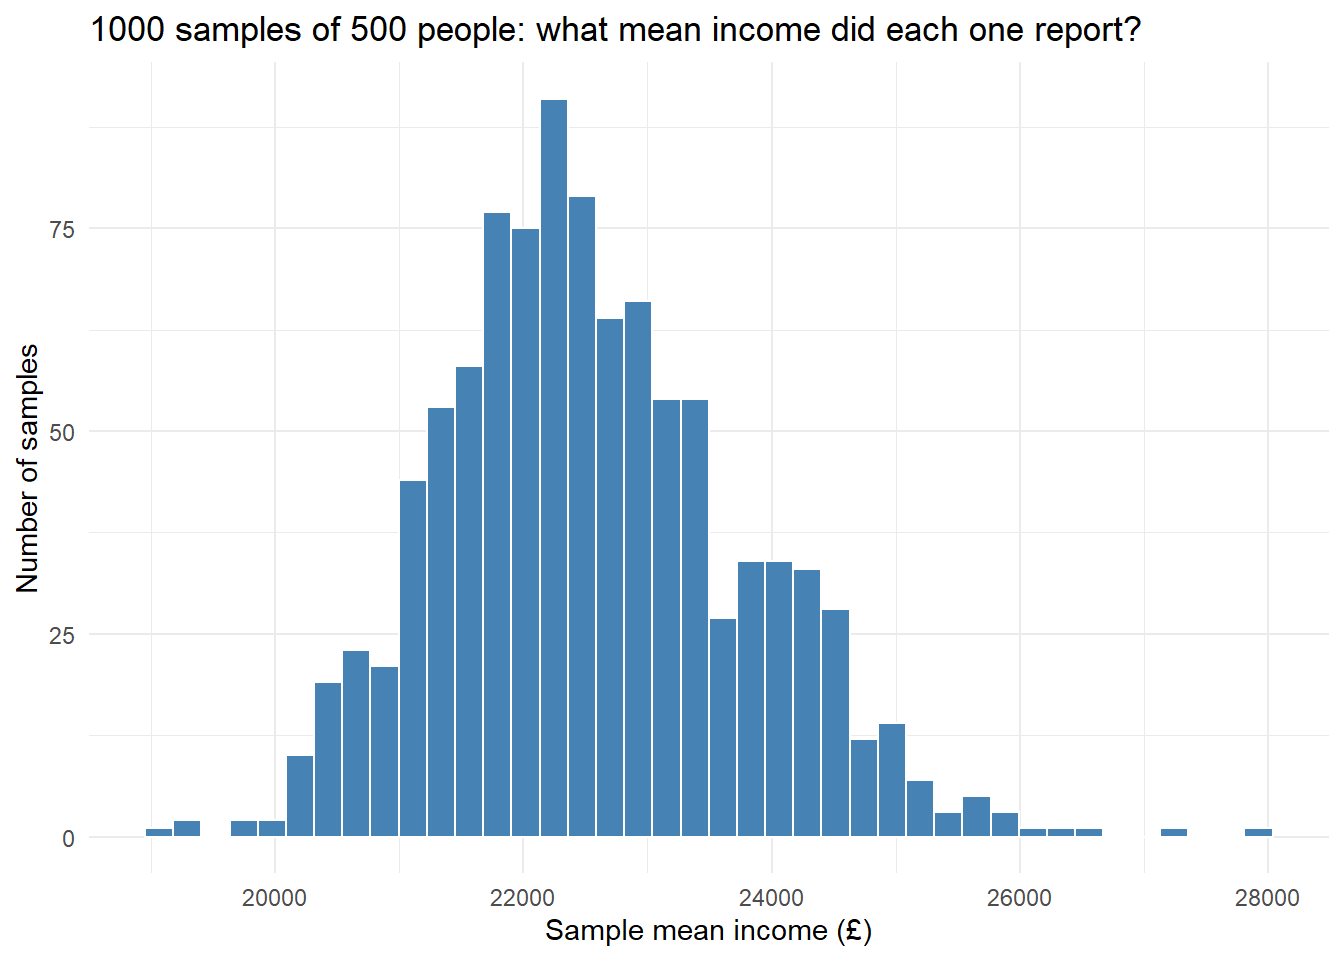
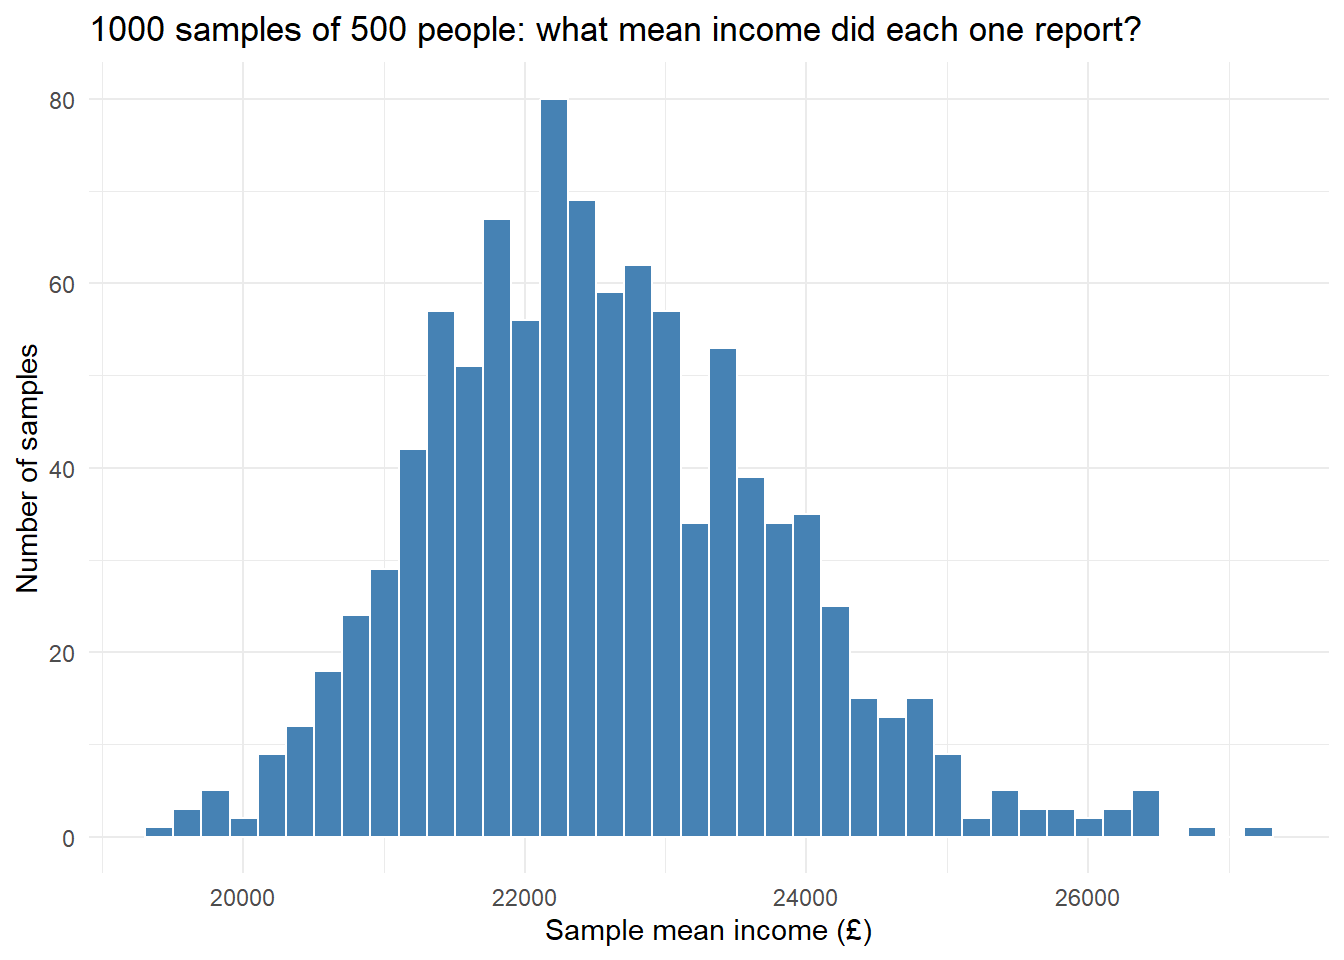
commit

diff --git a/docs/labs/03.QualitativeVariable.html b/docs/labs/03.QualitativeVariable.html
@@ -309,7 +309,7 @@ pre > code.sourceCode > span > a:first-child::before { text-decoration: underlin
 </header>
 
 
-<p><strong>Open this lab in RStudio: in the Files pane, click <code>labs</code> and then <code>03.QualitativeVariable.qmd</code>. Save your own copy in <code>myLabs</code> (<code>File -&gt; Save As...</code>) and work on the copy. Work through it from top to bottom, running each code chunk and adding your notes and answers in the file.</strong> (First time? See the <a href="../general/setup.html">Setup</a> guide.)</p>
+<p><strong>Open this lab in RStudio: in the Files pane, click <code>labs</code> and then <code>03.QualitativeVariable.qmd</code>. Save your own copy in <code>myLabs</code> (<code>File -&gt; Save As...</code>) and work on the copy. Work through it from top to bottom, running each code chunk and adding your notes and answers in the file.</strong> (First time? See the <a href="https://gdsl-ul.github.io/stats/general/localSetup.html">Setup: RStudio on a PC or Laptop</a> if you’re working on your own laptop)</p>
 <p>The lecture’s slides can be found on Canvas Week 3 <a href="#0">here</a>.</p>
 <p>Last week, we introduced Multiple Linear Regression (MLR) - a statistical method that models the relationship between a dependent variable and two or more independent variables, allowing researchers to examine how various predictors jointly influence an outcome. By using the following R code, we create and interpret the model:</p>
 <p><code>model &lt;- lm(pct_Very_bad_health ~ pct_No_qualifications + pct_Males + pct_Higher_manager_prof, data = census)</code></p>
@@ -331,7 +331,7 @@ pre > code.sourceCode > span > a:first-child::before { text-decoration: underlin
 </ul>
 <section id="analysing-categorical-variables" class="level2" data-number="4.1">
 <h2 data-number="4.1" class="anchored" data-anchor-id="analysing-categorical-variables"><span class="header-section-number">4.1</span> Analysing categorical variables</h2>
-<p>Recall that in Week 2 you became familiar with R by using the Census data. Today we will explore both the Family Resource Survey (FRS) and the Census data by using their categorical variables. The Census data is already in your ‘data/Census2021/’ folder, and you uploaded ‘FRS16-17_labels.csv’ to ‘data/FRS/’ in Week 1. If it is not there, download it from <a href="https://canvas.liverpool.ac.uk/courses/93312/pages/family-resource-survey-2016-17?module_item_id=2727712">Canvas</a> and upload it to ‘data/FRS/’ (use the <strong>Upload</strong> button in the Files pane: see <a href="../general/setup.html">Setup</a>, section 5). From the same Canvas page, also download ‘FRS_dictionary.xlsx’<!--and 'FRS16-17_codes.csv'--> to your computer: it explains what each variable means.</p>
+<p>Recall that in Week 2 you became familiar with R by using the Census data. Today we will explore both the Family Resource Survey (FRS) and the Census data by using their categorical variables. The Census data is already in your ‘data/Census2021/’ folder, and you uploaded ‘FRS16-17_labels.csv’ to ‘data/FRS/’ in Week 1. If it is not there, download it from <a href="https://canvas.liverpool.ac.uk/courses/93312/pages/family-resource-survey-2016-17?module_item_id=2727712">Canvas</a>and upload it to ‘data/FRS/’ (use the <strong>Upload</strong> button in the Files pane: see <a href="https://gdsl-ul.github.io/stats/general/localSetup.html">Setup</a>, section 6). From the same Canvas page, also download ‘FRS_dictionary.xlsx’<!--and 'FRS16-17_codes.csv'--> to your computer: it explains what each variable means.</p>
 <!--Now, there should be two .csv file: 'FRS16-17_labels.csv' and 'FRS16-17_codes.csv' in your '/data/FRS' folder. Double click to open both .csv files you may find they have exactly same column names - yes, they are in fact the same spreadsheet but 'FRS16-17_labels.csv' is more readable for the cell contents as they are in text format but cells 'FRS16-17_codes.csv' is in coding format. This is quite normal as when we doing surveys, we use text as the options of multiple choice questions for respondents to choose from, and therefore the collected survey results are in the 'FRS16-17_labels.csv' format. For example, for the multiple choice question - which region you are from? The options include 'London', 'North West', 'Wales', etc. However, while analysing the survey results, these text content (the options of multiple choice questions) are in fact different categories of the categorical/qualitative variable. So for some survey results, you may find they are formatted in coding way as 'FRS16-17_codes.csv', and along with a coding dictionary for you to learn the meaning of each coding. -->
 <p>To start today’s practical session, we first will use ‘FRS16-17_labels.csv’. <!--In the Region example, there are 12 categories for the categorical/qualitative variable Region--> You can open the .csv file in Excel and see that, unlike the Census dataset, the FRS dataset contains many qualitative/categorical variables, such as hh_tenure (Housing Tenure), happy (How happy did you feel yesterday?), health (How is your health in general), etc. To know the meaning of all the column names and the values in cell, you may need to refer to the ‘FRS_dictionary.xlsx’ to help your understanding. Recall from our lecture that these categorical variables will need to be treated as dummy variables in the regression model. In R, the variable type of qualitative/categorical variables is called ‘<strong>factor</strong>’.</p>
 <p>As usual we first load the necessary libraries.</p>

diff --git a/docs/general/inference.html b/docs/general/inference.html
@@ -289,11 +289,11 @@ pre > code.sourceCode > span > a:first-child::before { text-decoration: underlin
 <span id="cb2-3"><a href="#cb2-3" aria-hidden="true" tabindex="-1"></a></span>
 <span id="cb2-4"><a href="#cb2-4" aria-hidden="true" tabindex="-1"></a><span class="fu">sd</span>(means_100)   <span class="co"># standard error with n = 100</span></span></code></pre></div><button title="Copy to Clipboard" class="code-copy-button"><i class="bi"></i></button></div>
 <div class="cell-output cell-output-stdout">
-<pre><code>[1] 2637.878</code></pre>
+<pre><code>[1] 2807.429</code></pre>
 </div>
 <div class="code-copy-outer-scaffold"><div class="sourceCode cell-code" id="cb4"><pre class="sourceCode r code-with-copy"><code class="sourceCode r"><span id="cb4-1"><a href="#cb4-1" aria-hidden="true" tabindex="-1"></a><span class="fu">sd</span>(means_2000)  <span class="co"># standard error with n = 2000</span></span></code></pre></div><button title="Copy to Clipboard" class="code-copy-button"><i class="bi"></i></button></div>
 <div class="cell-output cell-output-stdout">
-<pre><code>[1] 600.891</code></pre>
+<pre><code>[1] 605.1986</code></pre>
 </div>
 </div>
 <p>Roughly £2,800 for samples of 100, against £600 for samples of 2000. Bigger samples give more precise answers — but look at the <em>rate</em>. To halve your uncertainty you must <strong>quadruple</strong> your sample.</p>
@@ -314,13 +314,13 @@ pre > code.sourceCode > span > a:first-child::before { text-decoration: underlin
     One Sample t-test
 
 data:  one_sample
-t = 23.394, df = 499, p-value &lt; 2.2e-16
+t = 22.117, df = 499, p-value &lt; 2.2e-16
 alternative hypothesis: true mean is not equal to 0
 95 percent confidence interval:
- 21169.40 25051.12
+ 22097.19 26405.92
 sample estimates:
 mean of x 
- 23110.26 </code></pre>
+ 24251.55 </code></pre>
 </div>
 </div>
 <p>Ignore most of that output and look at the part labelled <strong>95 percent confidence interval</strong>.</p>
@@ -347,12 +347,12 @@ mean of x
 <span id="cb9-7"><a href="#cb9-7" aria-hidden="true" tabindex="-1"></a><span class="fu">head</span>(many_intervals)</span></code></pre></div><button title="Copy to Clipboard" class="code-copy-button"><i class="bi"></i></button></div>
 <div class="cell-output cell-output-stdout">
 <pre><code>  sample_number    lower    upper
-1             1 20221.27 26864.52
-2             2 20456.60 25690.28
-3             3 20645.66 27116.96
-4             4 17782.72 21663.03
-5             5 20824.80 25198.74
-6             6 20662.92 28137.42</code></pre>
+1             1 19631.77 23004.07
+2             2 20266.88 24838.96
+3             3 20608.30 24367.54
+4             4 20835.96 25087.11
+5             5 20116.05 23756.56
+6             6 18720.42 22206.90</code></pre>
 </div>
 </div>
 <p>Now work out the true answer, and check each interval against it:</p>
@@ -415,13 +415,13 @@ FALSE  TRUE
     Welch Two Sample t-test
 
 data:  income_gross by sex
-t = -0.76743, df = 53.743, p-value = 0.4462
+t = 0.34648, df = 28.869, p-value = 0.7315
 alternative hypothesis: true difference in means between group Female and group Male is not equal to 0
 95 percent confidence interval:
- -11399.690   5088.867
+ -23951.32  33719.43
 sample estimates:
 mean in group Female   mean in group Male 
-            18854.59             22010.00 </code></pre>
+            16641.62             11757.57 </code></pre>
 </div>
 </div>
 <div style="background-color: #FFFBCC; padding: 10px; border-radius: 5px; border: 1px solid #E1C948;">

diff --git a/docs/labs/01.DataExploration.html b/docs/labs/01.DataExploration.html
@@ -1180,7 +1180,7 @@ $ survey_weight    &lt;int&gt; 2315, 1317, 2449, 427, 1017, 1753, 1363, 1344, 82
 <div class="cell">
 <div class="code-copy-outer-scaffold"><div class="sourceCode cell-code" id="cb41"><pre class="sourceCode r code-with-copy"><code class="sourceCode r"><span id="cb41-1"><a href="#cb41-1" aria-hidden="true" tabindex="-1"></a><span class="fu">mean</span>(<span class="fu">sample</span>(frs_independent<span class="sc">$</span>income_gross, <span class="at">size =</span> <span class="dv">500</span>))</span></code></pre></div><button title="Copy to Clipboard" class="code-copy-button"><i class="bi"></i></button></div>
 <div class="cell-output cell-output-stdout">
-<pre><code>[1] 25190.05</code></pre>
+<pre><code>[1] 22409.5</code></pre>
 </div>
 </div>
 <p>Read that from the inside out: <code>sample(...)</code> picks 500 incomes at random, and <code>mean(...)</code> averages them.</p>
@@ -1220,7 +1220,7 @@ $ survey_weight    &lt;int&gt; 2315, 1317, 2449, 427, 1017, 1753, 1363, 1344, 82
 <div class="cell">
 <div class="code-copy-outer-scaffold"><div class="sourceCode cell-code" id="cb45"><pre class="sourceCode r code-with-copy"><code class="sourceCode r"><span id="cb45-1"><a href="#cb45-1" aria-hidden="true" tabindex="-1"></a><span class="fu">sd</span>(many_means)</span></code></pre></div><button title="Copy to Clipboard" class="code-copy-button"><i class="bi"></i></button></div>
 <div class="cell-output cell-output-stdout">
-<pre><code>[1] 1212.882</code></pre>
+<pre><code>[1] 1223.652</code></pre>
 </div>
 </div>
 <p>About £1,200. In other words, a sample of 500 people typically misses the true mean income by around £1,200.</p>

diff --git a/docs/labs/02.MultipleLinear.html b/docs/labs/02.MultipleLinear.html
@@ -940,19 +940,19 @@ Call:
 lm(formula = y ~ x, data = made_up)
 
 Residuals:
-   Min     1Q Median     3Q    Max 
- -1736   -724   -114    506   2280 
+    Min      1Q  Median      3Q     Max 
+-1641.1  -554.1   -61.3   601.5  1707.1 
 
 Coefficients:
             Estimate Std. Error t value            Pr(&gt;|t|)    
-(Intercept) -1799.54     176.89   -10.2 &lt;0.0000000000000002 ***
-x             102.04       3.04    33.5 &lt;0.0000000000000002 ***
+(Intercept) -1843.53     152.88   -12.1 &lt;0.0000000000000002 ***
+x             101.71       2.63    38.7 &lt;0.0000000000000002 ***
 ---
 Signif. codes:  0 '***' 0.001 '**' 0.01 '*' 0.05 '.' 0.1 ' ' 1
 
-Residual standard error: 878 on 98 degrees of freedom
-Multiple R-squared:  0.92,  Adjusted R-squared:  0.919 
-F-statistic: 1.13e+03 on 1 and 98 DF,  p-value: &lt;0.0000000000000002</code></pre>
+Residual standard error: 759 on 98 degrees of freedom
+Multiple R-squared:  0.939, Adjusted R-squared:  0.938 
+F-statistic: 1.5e+03 on 1 and 98 DF,  p-value: &lt;0.0000000000000002</code></pre>
 </div>
 </div>
 <p>Look at the output: an R-squared of around 0.9, and a p-value on <code>x</code> too small for R to print. (Your figure will differ a little from the one on this page, and will change again each time you run the chunk, because the data is invented fresh each time.) On the numbers alone this is a triumph. But we built the data ourselves, so we know for a fact that the straight line is the wrong shape. Plot it and you can see the problem immediately:</p>
